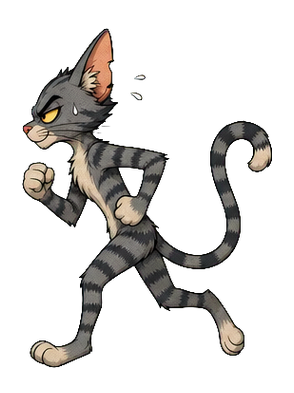
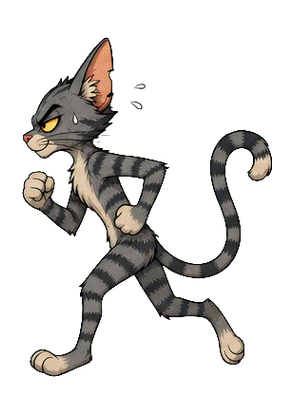
Wheel run: feet of every run frame on one line, per-cat foot point solved against the drum's inner floor

Changed region(s): [[0.0612, 0.0611, 0.949, 0.9771], [0.4286, 0.1832, 0.4898, 0.2748]]

diff --git a/Tools/import_art.py b/Tools/import_art.py
@@ -38,6 +38,17 @@ def process(sheet, frames, rows, extra):
     return out, name
 
 
+def feet_on_one_line(frames):
+    """Running in place: shifts every frame so its lowest point (the foot on the ground) is on the same row."""
+    images = [Image.open(f).convert("RGBA") for f in frames]
+    lows = [int(np.nonzero(np.array(im)[..., 3] > 40)[0].max()) for im in images]
+    target = max(lows)
+    for f, im, low in zip(frames, images, lows):
+        shifted = Image.new("RGBA", im.size, (0, 0, 0, 0))
+        shifted.paste(im, (0, target - low))
+        shifted.save(f)
+
+
 def trim(path, pad=6):
     im = Image.open(path)
     box = im.getchannel("A").point(lambda v: 255 if v > 24 else 0).getbbox()
@@ -104,6 +115,8 @@ def main():
             for old in glob.glob(f"{folder}/*.png*"):
                 os.remove(old)
             frames = sorted(glob.glob(f"{out}/{base}_[0-9].png"), key=lambda p: int(p.rsplit("_", 1)[1][:-4]))
+            if clip == "Run":
+                feet_on_one_line(frames)
             for i, f in enumerate(frames):
                 put(f, f"{folder}/{key.lower()}_{clip.lower()}_{i:02d}.png")
         elif name.startswith("prop_"):

diff --git a/Assets/_Project/Scripts/Presentation/Hideout/HideoutLayout.cs b/Assets/_Project/Scripts/Presentation/Hideout/HideoutLayout.cs
@@ -89,6 +89,19 @@ namespace TrashCats.Presentation.Hideout
             };
         }
 
+        /// <summary>
+        /// Foot point of each cat running in the wheel, solved against the sprites (wheel_idle_00 inner floor, the union
+        /// of the cat's run frames with their feet on one line): every pixel stays inside the drum and the feet stand on
+        /// its floor, in the middle of the range of fitting positions.
+        /// </summary>
+        public static Vector2? RunFoot(string viewKey) => viewKey switch
+        {
+            "ryzhy" => new Vector2(0.804f, 0.392f),
+            "shnyr" => new Vector2(0.81f, 0.388f),
+            "ponchik" => new Vector2(0.789f, 0.388f),
+            _ => null,
+        };
+
         /// <summary>Idle cats hang around in front of the door.</summary>
         public static CatSpot Idle(int index) => new CatSpot(index switch
         {

diff --git a/Assets/_Project/Scripts/Presentation/Hideout/HideoutSceneView.cs b/Assets/_Project/Scripts/Presentation/Hideout/HideoutSceneView.cs
@@ -343,6 +343,8 @@ namespace TrashCats.Presentation.Hideout
                     if (spot.OverProp && index > 0)
                         spot = new HideoutLayout.CatSpot(spot.Foot + new Vector2(-0.12f * index, -0.12f), HideoutLayout.CatClip.Sit);
                     wheelBusy |= spot.Clip == HideoutLayout.CatClip.Run;
+                    if (spot.Clip == HideoutLayout.CatClip.Run && token.Art != null && HideoutLayout.RunFoot(token.Art.viewKey) is Vector2 runFoot)
+                        spot = new HideoutLayout.CatSpot(runFoot, spot.Clip, spot.FaceLeft, spot.OverProp, spot.Scale);
                 }
                 else
                     spot = HideoutLayout.Idle(idle++);
